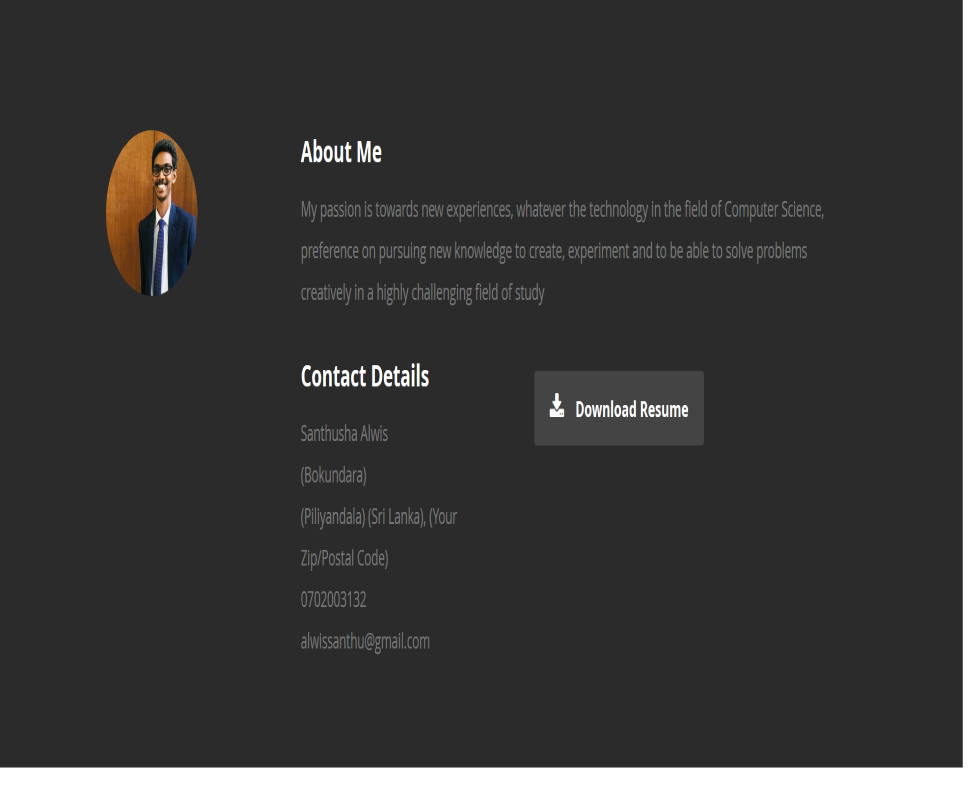
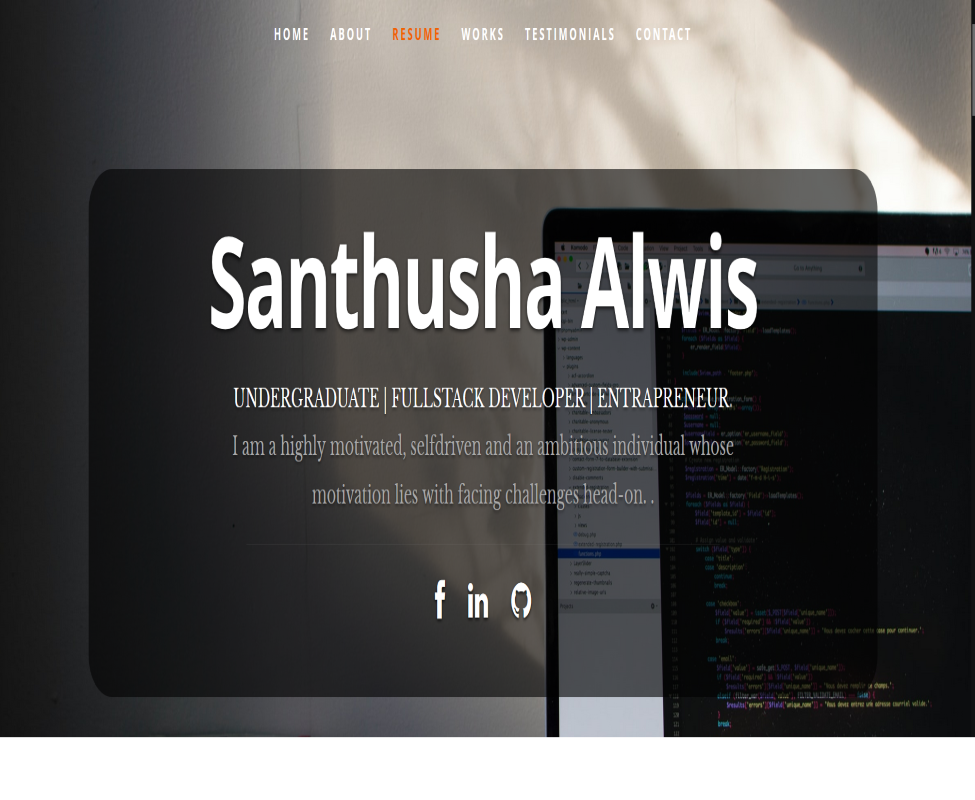
Resume Component updated

diff --git a/src/Components/About.js b/src/Components/About.js
@@ -40,7 +40,7 @@ class About extends Component {
                </div>
                <div className="columns download">
                   <p>
-                     <a href={resumeDownload} className="button"><i className="fa fa-download"></i>Download Resume</a>
+                     <a href={resumeDownload} className="button"><i className="fa fa-download"></i>Download Curricular Vitae</a>
                   </p>
                </div>
             </div>

diff --git a/src/Components/Resume.js b/src/Components/Resume.js
@@ -56,7 +56,7 @@ class Resume extends Component {
       <div className="row skill">
 
          <div className="three columns header-col">
-            <h1><span>Skills</span></h1>
+            <h1><span>Language and Technologies</span></h1>
          </div>
 
          <div className="nine columns main-col">

diff --git a/public/css/layout.css b/public/css/layout.css
@@ -49,7 +49,10 @@ header .banner {
   margin: 0 auto;
   width: 85%;
   padding-bottom: 30px;
+  padding-top: 30px;
   text-align: center;
+  background-color: rgba(0, 0, 0, 0.6);
+  border-radius: 2em;
 }
 
 header .banner-text {
